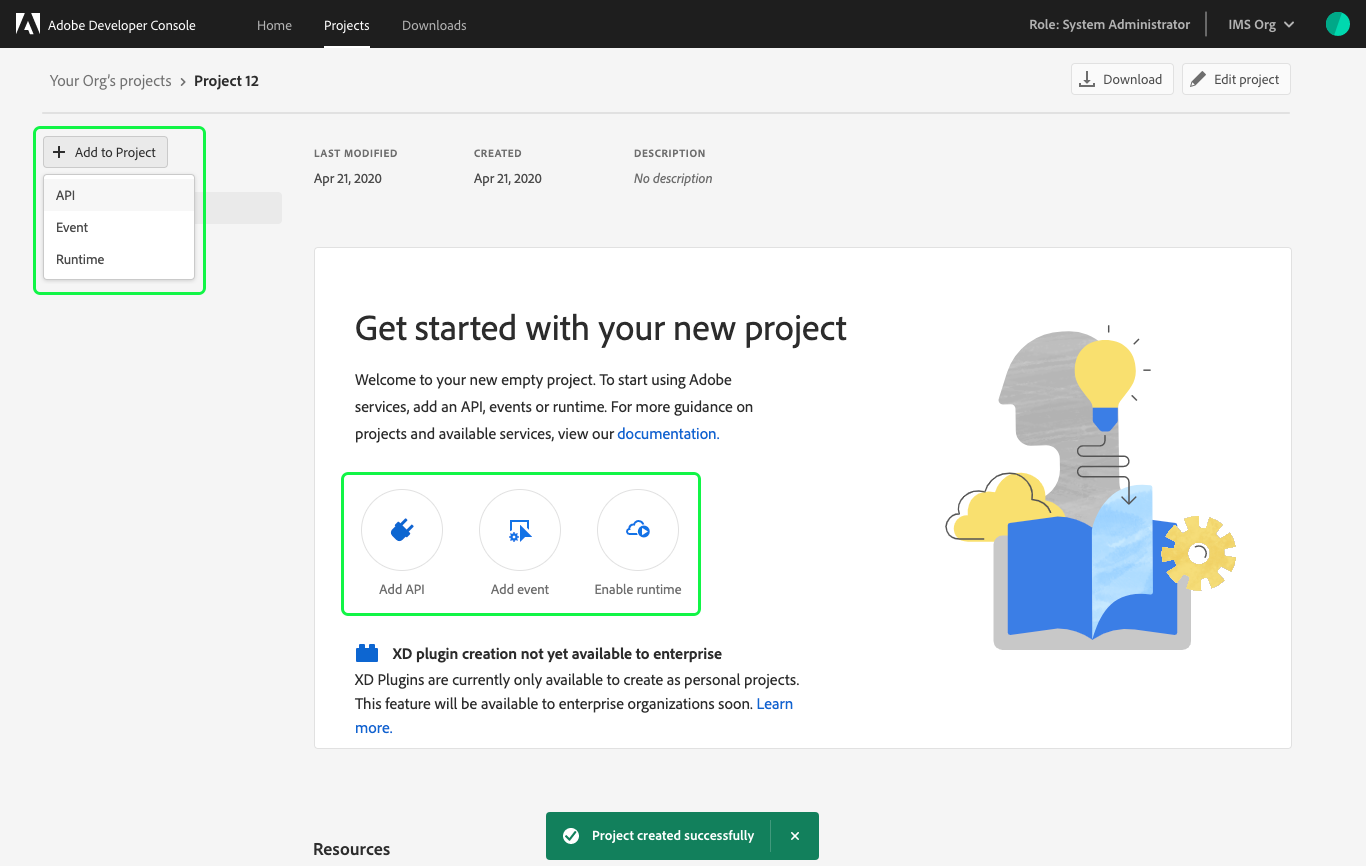
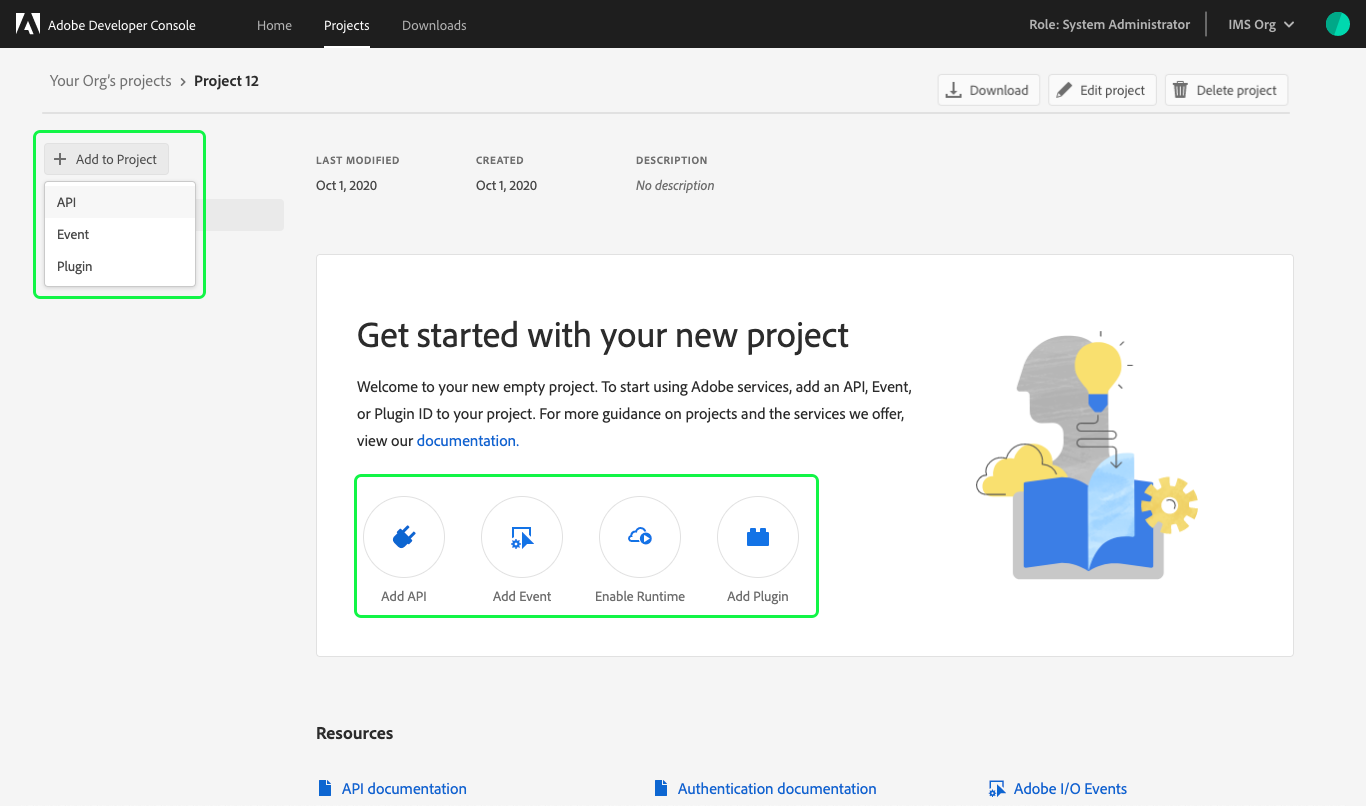
Projects screenshot updates

diff --git a/projects-empty.md b/projects-empty.md
@@ -1,0 +1,55 @@
+# Create an empty project
+
+This guide provides step-by-step instructions for creating an empty project in Adobe Developer Console.
+
+> **Note:** If you were hoping to create a project using a template, please follow the steps in the guide for [creating a project using a template](template-project.md).
+
+## Select organization
+
+Before creating a project, ensure that you are working in the correct organization. To view and select an organization, use the org switcher located in the top-right corner of Console.
+
+![Organization switcher in Console](images/switch-organizations.png)
+
+## Quick start
+
+Next, select **Create new project** from the **Quick start** menu on the **Home** screen.
+
+> **Note:** When accessing Console using a developer organization, only two Quick start options appear: "Create new project" and "Developer downloads".
+
+![](images/create-new-project-quick-start.png)
+
+## Project overview
+
+After selecting to create a new project, the **Project overview** opens, showing the details of your project and an alert confirming that a new project has been created successfully.
+
+A project name is automatically generated for your project ("Project 12" in the top-left corner of the screen) and is an internal name that can be edited using the **Edit project** button.
+
+> **Note:** When creating multiple projects within an organization or working collaboratively with other developers, it is best practice to choose a project name that is descriptive and makes it easy to distinguish your project from others.
+
+The project overview screen also includes the last modified date of the project, the project created date, and the project description.
+
+![](images/new-project-created.png)
+
+## Download project
+
+From the project overview, you can download a JSON file containing project information by selecting **Download** in the top-right corner of the overview. Selecting this button automatically begins a download of a JSON file that you can then open and edit in your preferred editor.
+
+## Delete project
+
+You can delete a project from the project overview screen by selecting **Delete project** in the top-right corner. In order to confirm that you wish to delete the project, you must type the project name exactly as shown in the top-left corner of the overview (in this example, *Project 12*). Once the project name has been entered, select **Delete project** to delete the project.
+
+Once the project has been deleted, you are returned to the project list and an alert appears confirming that the project has been successfully deleted.
+
+> **Note:** Once Runtime has been enabled for a project, the project can no longer be deleted and the **Delete project** button will not appear in the project overview. You can select to start over with a new project or edit your existing project, but you cannot remove Runtime nor can you delete a project containing a Runtime namespace.
+
+![](images/project-delete.png)
+
+## Next Steps
+
+With a new project created, you can start using Adobe services, adding APIs, events, or plugins, and enabling Runtime using the **Add to Project** button on the left-side of the overview or the quick action buttons provided in the center of the screen.
+
+To learn more about working with services including steps for adding APIs, events, and runtime, please begin by reading the [services overview](services.md).
+
+If you are interested in building a Plugin, please visit the [plugins overview](plugin-project.md) for a complete guide to creating, updating, and distributing plugins.
+
+![](images/empty-project-add-to-project.png)

diff --git a/projects.md b/projects.md
@@ -12,11 +12,11 @@ Use the org switcher to view the organizations to which you belong and easily sw
 
 ![Organization switcher on the Console home screen.](images/switch-organizations.png)
 
-## Projects
+## Empty Projects
 
-Think of a project as an open canvas or "blank slate" into which you can add events, runtime, plugins, APIs, and more to create custom applications.
+Think of an empty project as an open canvas or "blank slate" into which you can add events, runtime, plugins, APIs, and more to create custom applications.
 
-To get started, follow the steps provided in the guide for [creating a new project](projects-new.md).
+To get started, follow the steps provided in the guide for [creating an empty project](projects-empty.md).
 
 ## Templated projects
 

diff --git a/services.md b/services.md
@@ -2,7 +2,7 @@
 
 After creating a project, it is time to begin adding services. These services include accessing Adobe APIs, adding events, and enabling Runtime.
 
-> **Note:** If you are looking to build an XD Plugin, please visit the [plugins overview](plugin-project.md) for a complete guide to creating, updating, and distributing plugins.
+> **Note:** If you are looking to build Plugin, please visit the [plugins overview](plugin-project.md) for a complete guide to creating, updating, and distributing plugins.
 
 ## Add a service
 

diff --git a/projects-template.md b/projects-template.md
@@ -4,7 +4,7 @@ In order to streamline the creation of projects, Adobe Developer Console provide
 
 This guide outlines the steps necessary to create a project using a template. 
 
-> **Note:** If you do not wish to use a template and would like to create an empty project, please follow the steps in the [empty project guide](projects-new.md).
+> **Note:** If you do not wish to use a template and would like to create an empty project, please follow the steps in the [empty project guide](projects-empty.md).
 
 ## Select organization
 

diff --git a/faq.md b/faq.md
@@ -42,7 +42,7 @@ If you are a member of an enterprise organization, please note that either Syste
 
 ### How do I delete Runtime from my project or workspace?
 
-Currently it is not possible to remove Runtime from a project. Please create a new project instead.
+Currently it is not possible to remove Runtime from a project or workspace within a project. Please create a new project instead.
 
 ### What is a workspace?
 
